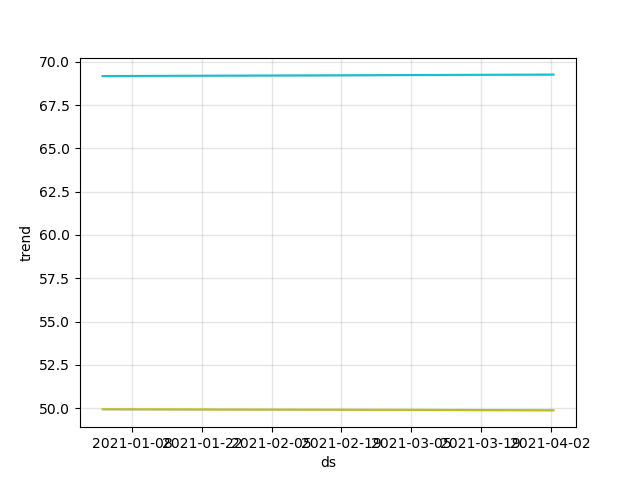
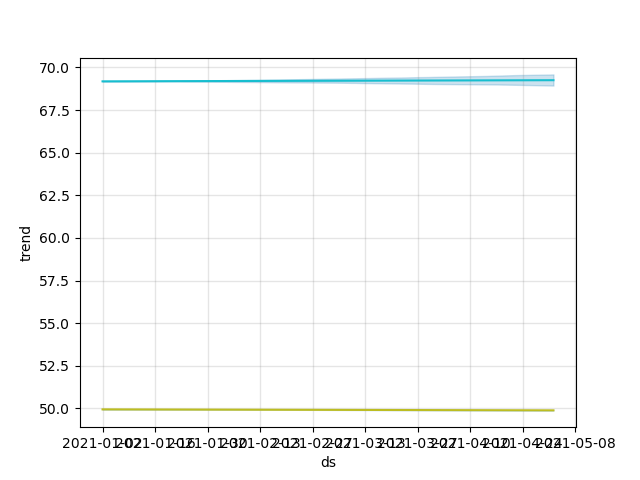
LOGISTIC, GECI LASSU

diff --git a/Code/BackEnd/Prediction.py b/Code/BackEnd/Prediction.py
@@ -116,13 +116,16 @@ class Prediction:
             else:
                 predictdf['y'] = self.df['gender'].apply(lambda x: self.getValue(x, i - 8))
             predictdf.drop(['time', 'gender', 'age'], axis=1, inplace=True)
+            predictdf['cap'] = 100
+            predictdf['floor'] = 0
 
-            self.models.append(Prophet(interval_width=0.95, daily_seasonality=True, weekly_seasonality=True, yearly_seasonality=True, growth='linear', holidays=self.holidays))
+            self.models.append(Prophet(interval_width=0.95, daily_seasonality=True, weekly_seasonality=True, yearly_seasonality=True, growth='logistic', holidays=self.holidays))
             #m.add_seasonality(name="monthly", period=30.5*12, fourier_order=8)
 
             with suppress_stdout_stderr():
                 self.models[i].fit(predictdf)
             future = self.models[i].make_future_dataframe(periods=self.periodNum, freq='2H', include_history=False)
+            future['cap'] = 100
             future['floor'] = 0
             self.forecasts.append(self.models[i].predict(future))
             self.forecasts[i].head()
@@ -243,7 +246,7 @@ class Prediction:
         print(monthpercent)
         print(weekpercent)
 
-#predict = Prediction()
-#print(predict.getPrediction('2021-04-02 14:00:00', '192-168-0-0-8080'))
-#predict.processPlot()
-#predict.createStats()
+'''predict = Prediction()
+print(predict.getPrediction('2021-05-02 04:00:00', '192-168-0-176-8080'))
+predict.processPlot()
+predict.createStats()'''
